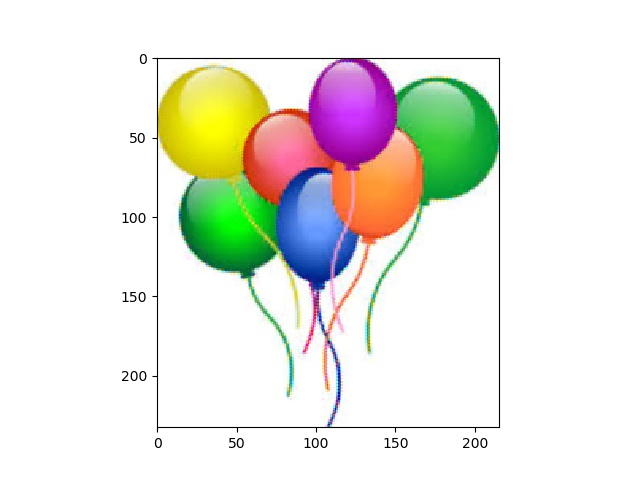
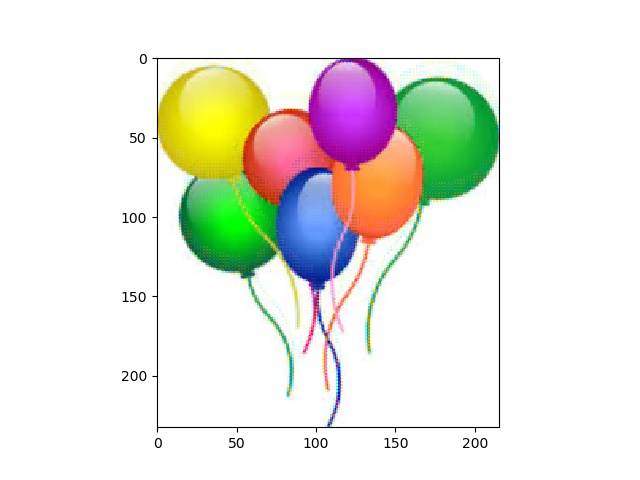
updated bilinear demosaicing

diff --git a/demosaic_python/demosaic_bi.py b/demosaic_python/demosaic_bi.py
@@ -2,86 +2,104 @@ import numpy as np
 from matplotlib.image import imread
 import matplotlib.pyplot as plt
 
-color = {"red": 0, "green": 1, "blue": 2}
+class Pixel:
+    def __init__(self, x, y):
+        self.x = x
+        self.y = y
+
+def is_valid_pair(ind1, ind2, shape):
+    return is_valid_pixel(ind1, shape) and is_valid_pixel(ind2, shape)
+
+def is_valid_pixel(ind, shape):
+    row_size = shape[0]
+    col_size = shape[1]
+
+    # If its out of bounds, return False
+    if (ind.x < 0 or ind.x >= row_size or ind.y < 0 or ind.y >= col_size):
+        return False
+    
+    # Pixel is NOT out of bounds
+    return True
+
+def average_of_valid_pixels(l, r, t, b, im):
+    # If there are pixels that are out of the boundary, don't include them in the avg calculation
+
+    row_size = im.shape[0]
+    col_size = im.shape[1]
+
+    pixels = [l, r, t, b]
+    temp, count = 0, 0
+
+    for p in pixels:
+        if not (p.x < 0 or p.x >= row_size or p.y < 0 or p.y >= col_size):
+            temp += im[p.x][p.y]
+            count += 1
+
+    if (count == 0): # This shouldn't happen because at least two of the pixels will be valid
+        return 0
+
+    return temp / count
+
+def average_of_two(p1, p2, im):
+    row_size = im.shape[0]
+    col_size = im.shape[1]
+
+    if (is_valid_pair(p1, p2, im.shape)):
+        return (im[p1.x][p1.y] + im[p2.x][p2.y])/2
+    elif(is_valid_pixel(p1, im.shape)):
+        return im[p1.x][p1.y]
+    else:
+        return im[p2.x][p2.y]
 
 # Bilinear Interpolation Demosaicing
 def demosaic_bi(im):
-
     '''
     m[x][y][0] --> RED
     m[x][y][1] --> GREEN
     m[x][y][2] --> BLUE
     '''
-
+    
     m = np.zeros((im.shape[0], im.shape[1], 3))
     shape = im.shape
+    row, col = shape[0], shape[1]
 
-    # Padded Image - Padded with '-1'
-    im_p = np.negative(np.ones((im.shape[0] + 2, im.shape[1] + 2)))
-    im_p[1:shape[0]+1,1:shape[1]+1] = im
-    
-    for y in range(1, im.shape[0]+1):
-        for x in range(1, im.shape[1]+1):
+    for r in range(im.shape[0]):
+        for c in range(im.shape[1]):
 
-            # Normalize to compensate for padding
-            row = y-1
-            col = x-1 
+            left_top = Pixel(r-1, c-1)
+            mid_top = Pixel(r-1, c)
+            right_top = Pixel(r-1, c+1)
+            left_mid = Pixel(r, c-1)
+            right_mid = Pixel(r, c+1)
+            bottom_left = Pixel(r+11, c-1)
+            bottom_mid = Pixel(r+1, c)
+            bottom_right = Pixel(r+1, c+1)
 
-            # In this format:
-            # X   X
-            #   P
-            # X   X
-            corner_pixels = np.array([im_p[y-1][x-1], im_p[y-1][x+1], im_p[y+1][x-1], im_p[y+1][x+1]])
-            corner_pixels = corner_pixels[corner_pixels >= 0]
-            # In this format:
-            #   X 
-            # X P X
-            #   X               
-            edge_pixels = np.array([im_p[y][x-1], im_p[y][x+1], im_p[y-1][x], im_p[y+1][x]])
-            edge_pixels = edge_pixels[edge_pixels >= 0]
+            if (r % 2 == 0): # RED GREEN pattern row
+                if (c % 2 == 0): # RED pixel
 
-            # In this format:
-            # X P X
-            l_r_pixels = np.array([im_p[y][x-1], im_p[y][x+1]])
-            l_r_pixels = l_r_pixels[l_r_pixels >= 0]
-
-            # In this format:
-            #   X
-            #   P
-            #   X
-            t_b_pixels = np.array([im_p[y-1][x], im_p[y+1][x]])
-            t_b_pixels = t_b_pixels[t_b_pixels >= 0]
-
-            if (y%2 == 1): # RED GREEN pattern row
-                if (x%2 == 1): # RED pixel
-
-                    # Get red pixel - copy
-                    m[row][col][0] = im_p[y][x]
-                    # Get green pixel - take avg of surrounding non-negative green pixels
-                    m[row][col][1] = edge_pixels.mean()
-                    # Get blue pixel - take avg of surrounding non-negative blue pixels
-                    m[row][col][2] = corner_pixels.mean()
+                    m[r][c][0] = im[r][c]
+                    m[r][c][1] = average_of_valid_pixels(left_mid, right_mid, mid_top, bottom_mid, im)
+                    m[r][c][2] = average_of_valid_pixels(left_top, bottom_right, bottom_left, right_top, im)
 
                 else: # GREEN pixel
 
-                    # Get red pixel - take avg of surrounding non-negative red pixels
-                    m[row][col][0] = l_r_pixels.mean()
-                    # Get green pixel - copy
-                    m[row][col][1] = im_p[y][x]
-                    # Get blue pixel - take avg of surrounding non-negative blue pixels
-                    m[row][col][2] = t_b_pixels.mean()
+                    m[r][c][0] = average_of_two(left_mid, right_mid, im)
+                    m[r][c][1] = im[r][c]
+                    m[r][c][2] = average_of_two(mid_top, bottom_mid, im)
 
-            else: # BLUE GREEN pattern row
-                if (x%2 == 1): # GREEN pixel
-
-                    m[row][col][0] = t_b_pixels.mean()
-                    m[row][col][1] = im_p[y][x]
-                    m[row][col][2] = l_r_pixels.mean()
+            else: # GREEN BLUE pattern row
+                if (c % 2 == 0): # GREEN pixel
+                    
+                    m[r][c][0] = average_of_two(mid_top, bottom_mid, im)
+                    m[r][c][1] = im[r][c]
+                    m[r][c][2] = average_of_two(left_mid, right_mid, im)
 
                 else: # BLUE pixel
 
-                    m[row][col][0] = corner_pixels.mean()
-                    m[row][col][1] = edge_pixels.mean()
-                    m[row][col][2] = im_p[y][x]
+                    m[r][c][0] = average_of_valid_pixels(left_top, bottom_right, bottom_left, right_top, im)
+                    m[r][c][1] = average_of_valid_pixels(left_mid, right_mid, mid_top, bottom_mid, im)
+                    m[r][c][2] = im[r][c]
 
     return m
+
